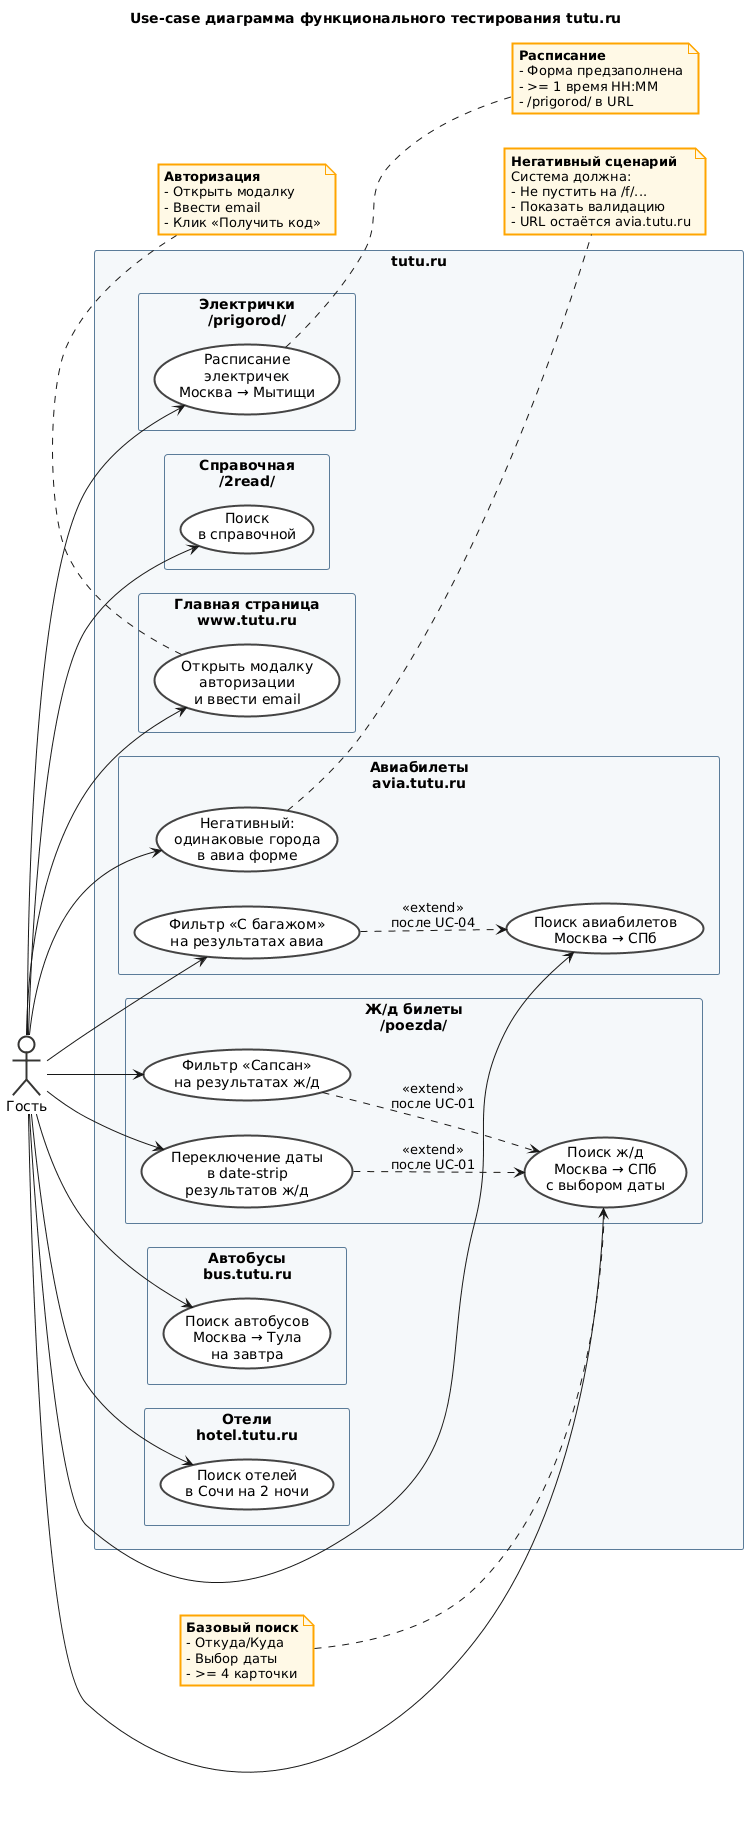
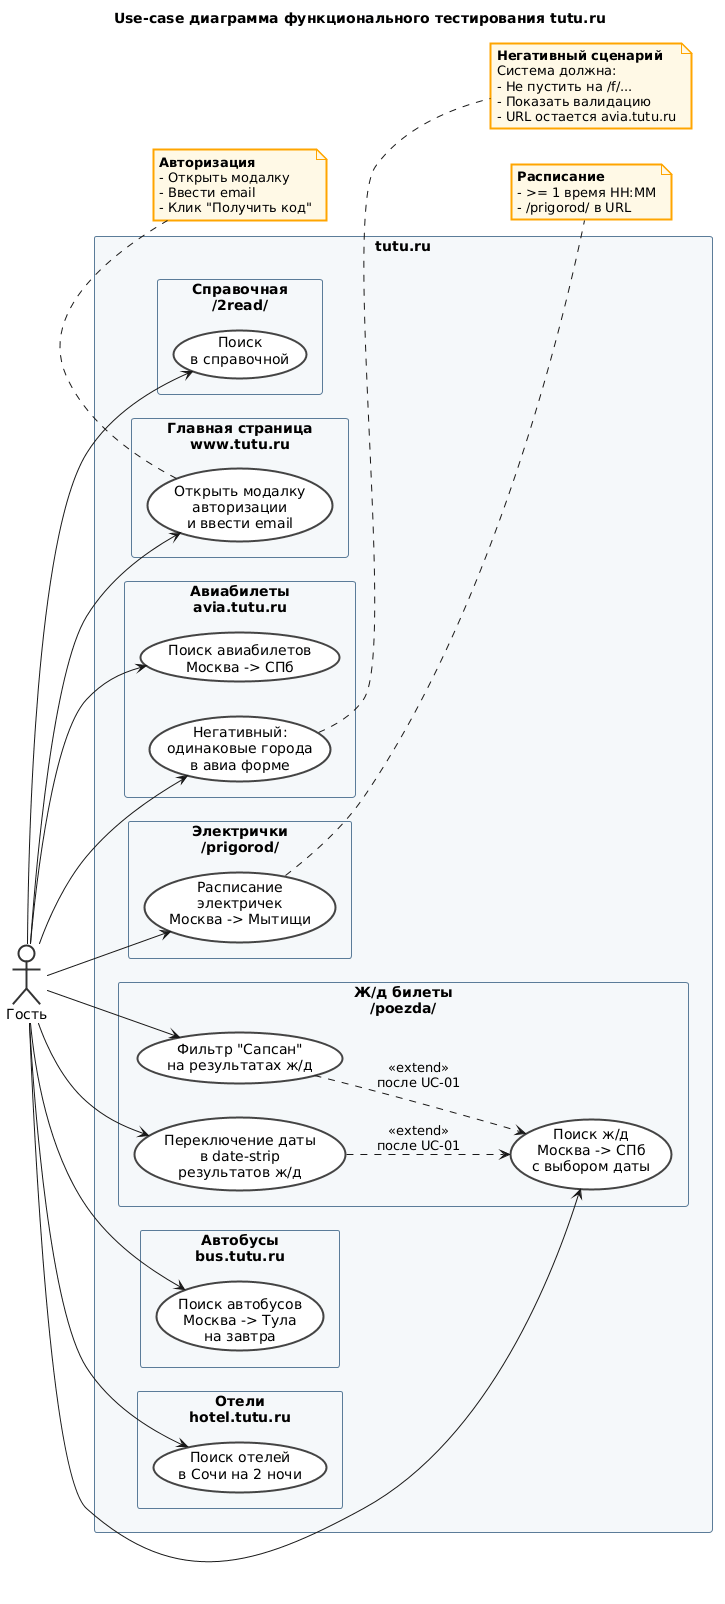
final fixes

diff --git a/src/test/java/pages/BaseFormPage.java b/src/test/java/pages/BaseFormPage.java
@@ -1,12 +1,14 @@
 package pages;
 
 import org.openqa.selenium.By;
+import org.openqa.selenium.JavascriptExecutor;
 import org.openqa.selenium.WebDriver;
 import org.openqa.selenium.WebElement;
 import org.openqa.selenium.support.ui.ExpectedConditions;
 import org.openqa.selenium.support.ui.WebDriverWait;
 import utils.DateUtils;
 
+import java.time.Duration;
 import java.time.LocalDate;
 import java.time.ZoneId;
 import java.util.List;
@@ -32,6 +34,7 @@ public class BaseFormPage extends Page {
 
     protected WebElement fillField(By input, String city) {
         WebElement inp = wait.until(ExpectedConditions.elementToBeClickable(input));
+        ((JavascriptExecutor) driver).executeScript("arguments[0].scrollIntoView({block:'center'});", inp);
 
         inp.click();
         inp.clear();
@@ -39,22 +42,23 @@ public class BaseFormPage extends Page {
 
         wait.until(ExpectedConditions.visibilityOfElementLocated(SUGGEST_CONTAINER));
 
-        WebElement matchedSuggestion = wait.until(driver -> {
-            List<WebElement> items = driver.findElements(SUGGEST_ITEM);
-            for (WebElement el : items) {
-                try {
-                    String text = el.getText();
-                    if (el.isDisplayed() &&
-                            text != null &&
-                            text.toLowerCase().contains(city.toLowerCase())) {
-                        return el;
-                    }
-                } catch (Exception ignored) {}
-            }
-            return null;
+        wait.until(d -> {
+            List<WebElement> items = d.findElements(SUGGEST_ITEM);
+            return !items.isEmpty() && items.get(0).isDisplayed();
         });
 
-        matchedSuggestion.click();
+        WebElement first = driver.findElements(SUGGEST_ITEM).get(0);
+        ((JavascriptExecutor) driver).executeScript("arguments[0].click();", first);
+
+        try {
+            new WebDriverWait(driver, Duration.ofSeconds(5)).until(ExpectedConditions.invisibilityOfElementLocated(SUGGEST_CONTAINER));
+        } catch (Exception ignored) {
+        }
+
+        wait.until(d -> {
+            String v = d.findElement(input).getDomAttribute("value");
+            return v != null && !v.isEmpty();
+        });
         return inp;
     }
 
@@ -94,6 +98,13 @@ public class BaseFormPage extends Page {
     }
 
     protected void clickSubmit() {
-        wait.until(ExpectedConditions.elementToBeClickable(SUBMIT)).click();
+        WebElement btn = wait.until(ExpectedConditions.elementToBeClickable(SUBMIT));
+        ((JavascriptExecutor) driver).executeScript("arguments[0].scrollIntoView({block:'center'});", btn);
+
+        try {
+            btn.click();
+        } catch (Exception e) {
+            ((JavascriptExecutor) driver).executeScript("arguments[0].click();", btn);
+        }
     }
 }

diff --git a/src/test/java/pages/TrainPage.java b/src/test/java/pages/TrainPage.java
@@ -36,35 +36,32 @@ public class TrainPage extends BaseFormPage {
     }
 
     private void fillFieldWithExactText(By inputLocator, String prefix, String exactCity) {
-
         WebElement input = wait.until(ExpectedConditions.elementToBeClickable(inputLocator));
+        ((JavascriptExecutor) driver).executeScript("arguments[0].scrollIntoView({block:'center'});", input);
 
-        driver.findElements(inputLocator).get(0).click();
+        String currentValue = input.getDomAttribute("value");
+        if (currentValue != null && currentValue.equalsIgnoreCase(exactCity)) {
+            return;
+        }
+
         input.click();
         input.clear();
         input.sendKeys(prefix);
 
-        WebElement matched = wait.until(driver -> {
-            List<WebElement> items = driver.findElements(SUGGEST_ITEM);
+        wait.until(ExpectedConditions.visibilityOfElementLocated(SUGGEST_CONTAINER));
 
-            for (WebElement el : items) {
-                if (!el.isDisplayed()) continue;
+        By exactSuggestion = By.xpath("//div[@data-ti='dropdown-item' and contains(., '" + exactCity + "')]");
 
-                String text = el.getText();
-                if (text != null && text.toLowerCase().contains(exactCity.toLowerCase())) {
-                    return el;
-                }
-            }
-            return null;
-        });
+        WebElement suggestion = wait.until(ExpectedConditions.elementToBeClickable(exactSuggestion));
 
-        matched.click();
+        suggestion.click();
 
         wait.until(d -> {
-            String value = d.findElement(inputLocator).getDomAttribute("value");
-            return value != null &&
-                    value.toLowerCase().contains(exactCity.toLowerCase());
+            String value = input.getDomAttribute("value");
+            return value != null && value.equalsIgnoreCase(exactCity);
         });
+
+        wait.until(ExpectedConditions.invisibilityOfElementLocated(SUGGEST_CONTAINER));
     }
 
     public TrainPage pickDateInDays(int daysFromToday) {

diff --git a/src/test/java/tests/TrainTest.java b/src/test/java/tests/TrainTest.java
@@ -20,7 +20,7 @@ public class TrainTest extends BaseTest {
                 .waitForResults();
 
         Assert.assertTrue(results.countTrainCards() >= 4,
-                "Ожидаем минимум 4 карточки поездов в результатах, нашли: " + results.countTrainCards());
+                "Должно быть минимум 4 карточки поездов в результатах, найдено: " + results.countTrainCards());
     }
 
     @Test(description = "UC-02: фильтр Сапсан в результатах ж/д")
@@ -36,11 +36,9 @@ public class TrainTest extends BaseTest {
         int trainsBefore = results.countTrainCards();
         results.clickSapsanFilter();
 
-        Assert.assertTrue(results.isSapsanFilterActive(),
-                "Чип «Сапсан» должен получить класс selected после клика");
-        Assert.assertTrue(results.allVisibleTrainsAreSapsan(),
-                "После фильтра все видимые поезда должны быть «Сапсан». " +
-                        "Найдены: " + results.visibleTrainNames());
+        Assert.assertTrue(results.isSapsanFilterActive(), "Чип \"Сапсан\" должен получить класс selected после клика");
+        Assert.assertTrue(results.allVisibleTrainsAreSapsan(), "После фильтра все видимые поезда должны быть \"Сапсан\". " +
+                        "Найдено: " + results.visibleTrainNames());
         Assert.assertTrue(results.countTrainCards() <= trainsBefore,
                 "Количество карточек после применения фильтра не должно вырасти");
     }
@@ -59,13 +57,10 @@ public class TrainTest extends BaseTest {
         results.clickAdjacentDateInStrip();
         String urlAfter = driver.getCurrentUrl();
 
-        Assert.assertNotEquals(urlAfter, urlBefore,
-                "URL должен измениться после клика по соседней дате в date-strip");
-        Assert.assertTrue(urlAfter.contains("/poezda/"),
-                "После переключения даты должны оставаться на странице результатов /poezda/");
+        Assert.assertNotEquals(urlAfter, urlBefore, "URL должен измениться после клика по соседней дате в date-strip");
+        Assert.assertTrue(urlAfter.contains("/poezda/"), "Неверный URL");
 
         results.waitForResults();
-        Assert.assertTrue(results.countTrainCards() >= 1,
-                "На новой дате должны быть результаты (≥ 1 карточка после ожидания загрузки)");
+        Assert.assertTrue(results.countTrainCards() >= 1, "Должна быть хотя бы 1 карточка после ожидания загрузки");
     }
 }

diff --git a/src/test/java/tests/HomePageTest.java b/src/test/java/tests/HomePageTest.java
@@ -11,19 +11,15 @@ public class HomePageTest extends BaseTest {
     @Test(description = "UC-10: открытие модалки авторизации и ввод email")
     public void uc10_openLoginModalAndSubmitEmail() {
         HomePage home = new HomePage(driver, wait).open();
-        Assert.assertTrue(home.isHeaderNavigationVisible(),
-                "Шапка с навигацией должна быть видна");
+        Assert.assertTrue(home.isHeaderNavigationVisible(), "Шапка с навигацией должна быть видна");
 
         LoginModalPage modal = home.openLoginModal().waitForVisible();
-        Assert.assertTrue(modal.isEmailFieldVisible(),
-                "Поле ввода email должно быть видно после клика «Войти»");
+        Assert.assertTrue(modal.isEmailFieldVisible(), "Поле ввода email должно быть видно");
 
         modal.fillEmail("[email redacted]");
-        Assert.assertEquals(modal.getEmailValue(), "[email redacted]",
-                "Введённый email должен сохраниться в поле");
+        Assert.assertEquals(modal.getEmailValue(), "[email redacted]", "Введенный email должен сохраниться в поле");
 
         modal.clickContinue();
-        Assert.assertTrue(modal.codeStepReached(),
-                "После отправки email должен появиться шаг ввода кода или сообщение");
+        Assert.assertTrue(modal.codeStepReached(), "После отправки email должен появиться шаг ввода кода или сообщение");
     }
 }

diff --git a/src/test/java/pages/TrainResultsPage.java b/src/test/java/pages/TrainResultsPage.java
@@ -53,16 +53,6 @@ public class TrainResultsPage extends Page {
         return count;
     }
 
-    public boolean hasText(String keyword) {
-        List<WebElement> elements = driver.findElements(By.xpath("//*[contains(text(),\"" + keyword + "\")]"));
-        for (WebElement el : elements) {
-            if (isDisplayedSafe(el)) {
-                return true;
-            }
-        }
-        return false;
-    }
-
     public List<String> visibleTrainNames() {
         List<WebElement> badges = driver.findElements(TRAIN_NAME_BADGE);
         List<String> names = new ArrayList<>();

diff --git a/src/test/java/tests/AviaTest.java b/src/test/java/tests/AviaTest.java
@@ -31,9 +31,6 @@ public class AviaTest extends BaseTest {
         AviaResultsPage results = avia.submit();
         results.waitForResults();
 
-        Assert.assertTrue(driver.getCurrentUrl().contains("avia.tutu.ru"),
-                "После submit ожидаем переход на страницу результатов /f/ либо остаёмся на avia.tutu.ru. " +
-                        "URL: " + driver.getCurrentUrl());
         Assert.assertTrue(results.hasAirlineName());
     }
 
@@ -47,9 +44,7 @@ public class AviaTest extends BaseTest {
         boolean noNavigation = avia.submitAndExpectNoNavigation();
         boolean validationHint = avia.hasValidationHint();
 
-        Assert.assertTrue(noNavigation || validationHint,
-                "Ожидаем либо отсутствие навигации на /f/, либо подсказку валидации. " +
-                        "noNav=" + noNavigation + ", hint=" + validationHint +
-                        ", url=" + driver.getCurrentUrl());
+        Assert.assertTrue(noNavigation || validationHint, "ожидаем либо отсутствие навигации, либо подсказку валидации " +
+                "noNav=" + noNavigation + ", hint=" + validationHint + ", url=" + driver.getCurrentUrl());
     }
 }

diff --git a/src/test/java/tests/ElectrichkaTest.java b/src/test/java/tests/ElectrichkaTest.java
@@ -13,16 +13,14 @@ public class ElectrichkaTest extends BaseTest {
         ElectrichkaPage page = new ElectrichkaPage(driver, wait).open();
 
         Assert.assertTrue(page.isFormPrefilledWithDefaults() || !page.findFromInput().isEmpty(),
-                "Форма электричек должна быть видна (с дефолтами или пустая)");
+                "Форма электричек должна быть видна");
 
         page.fillFromIfEmpty("Москва");
         page.fillToIfEmpty("Мытищи");
 
         ElectrichkaResultsPage results = page.submit().waitForSchedule();
 
-        Assert.assertTrue(results.countDepartureTimes() >= 1
-                        && results.hasText("Расписание электричек"),
-                "Должно быть >= 1 времен в расписании и упоминание расписания. " +
-                        "Time count: " + results.countDepartureTimes());
+        Assert.assertTrue(results.countDepartureTimes() >= 1 && results.hasText("Расписание электричек"),
+                "Должно быть >= 1 времен в расписании и упоминание расписания" + "Time count: " + results.countDepartureTimes());
     }
 }

diff --git a/src/test/java/tests/FaqTest.java b/src/test/java/tests/FaqTest.java
@@ -17,10 +17,7 @@ public class FaqTest extends BaseTest {
         boolean hasRelevantResults = faq.countResultsContainingKeyword("озврат") >= 1
                 && faq.countResultsContainingKeyword("ернуть") >= 1;
 
-        Assert.assertTrue(urlChanged && hasRelevantResults,
-                "URL должен измениться после поиска или должны появиться результаты по запросу. " +
-                        "URL: " + urlAfterSearch);
-        Assert.assertTrue(faq.hasResultsHeading(),
-                "На странице результатов должны быть видны заголовки (h1/h2)");
+        Assert.assertTrue(urlChanged && hasRelevantResults, "Неверный URL: " + urlAfterSearch);
+        Assert.assertTrue(faq.hasResultsHeading(), "На странице результатов должны быть видны заголовки");
     }
 }

diff --git a/src/test/java/tests/HotelTest.java b/src/test/java/tests/HotelTest.java
@@ -18,11 +18,10 @@ public class HotelTest extends BaseTest {
 
         HotelResultsPage results = hotel.submit().waitForResults();
 
-        Assert.assertTrue(results.currentUrl().contains("hotel.tutu.ru"),
-                "URL должен остаться на hotel.tutu.ru: " + results.currentUrl());
+        Assert.assertTrue(results.currentUrl().contains("hotel.tutu.ru"), "Неверный URL " + results.currentUrl());
         Assert.assertTrue(results.hasText("Сочи") || results.currentUrl().toLowerCase().contains("sochi"),
-                "На странице результатов должно быть упоминание «Сочи»");
+                "На странице результатов должно быть упоминание \"Сочи\"");
         Assert.assertTrue(results.countHotelCards() >= 1 || results.hasPriceFormat(),
-                "Ожидаем хотя бы одну карточку отеля с ценой в результатах");
+                "Должна быть хотя бы одна карточка отеля с ценой в результатах");
     }
 }

diff --git a/src/test/java/utils/DateUtils.java b/src/test/java/utils/DateUtils.java
@@ -1,13 +1,10 @@
 package utils;
 
 import java.time.LocalDate;
-import java.time.format.DateTimeFormatter;
 import java.time.format.TextStyle;
 import java.util.Locale;
 
 public final class DateUtils {
-
-    private static final DateTimeFormatter Y_DASH_M_DASH_D = DateTimeFormatter.ofPattern("yyyy-MM-dd");
 
     private DateUtils() {
         throw new IllegalStateException("Utility class");
@@ -15,10 +12,6 @@ public final class DateUtils {
 
     public static LocalDate plusDays(int days) {
         return LocalDate.now().plusDays(days);
-    }
-
-    public static String toDashFormat(LocalDate date) {
-        return date.format(Y_DASH_M_DASH_D);
     }
 
     public static String monthRu(LocalDate date) {

diff --git a/src/test/java/base/BaseTest.java b/src/test/java/base/BaseTest.java
@@ -1,7 +1,6 @@
 package base;
 
 import org.apache.log4j.Logger;
-import org.openqa.selenium.Cookie;
 import org.openqa.selenium.WebDriver;
 import org.openqa.selenium.support.ui.WebDriverWait;
 import org.testng.annotations.AfterMethod;
@@ -25,9 +24,9 @@ public abstract class BaseTest {
         logger.info("Starting browser: " + browser);
         driver = DriverFactory.create(browser);
         driver.manage().window().maximize();
-        driver.manage().timeouts().pageLoadTimeout(Duration.ofSeconds(60));
+        driver.manage().timeouts().pageLoadTimeout(Duration.ofSeconds(100));
         driver.manage().timeouts().implicitlyWait(Duration.ZERO);
-        wait = new WebDriverWait(driver, Duration.ofSeconds(7), Duration.ofMillis(100));
+        wait = new WebDriverWait(driver, Duration.ofSeconds(30), Duration.ofMillis(100));
     }
 
     @AfterMethod(alwaysRun = true)

diff --git a/src/test/java/pages/ElectrichkaResultsPage.java b/src/test/java/pages/ElectrichkaResultsPage.java
@@ -23,8 +23,10 @@ public class ElectrichkaResultsPage extends Page {
         WebDriverWait wait = new WebDriverWait(driver, Duration.ofSeconds(20));
 
         wait.until(ExpectedConditions.visibilityOfElementLocated(
-                By.xpath("//a[string-length(normalize-space())=5 and contains(text(), ':')]")
+                By.xpath("//h1[contains(text(),'Расписание электричек')]")
         ));
+
+        wait.until(d -> countDepartureTimes() > 0 || hasText("отправ") || hasText("электрич"));
 
         return this;
     }